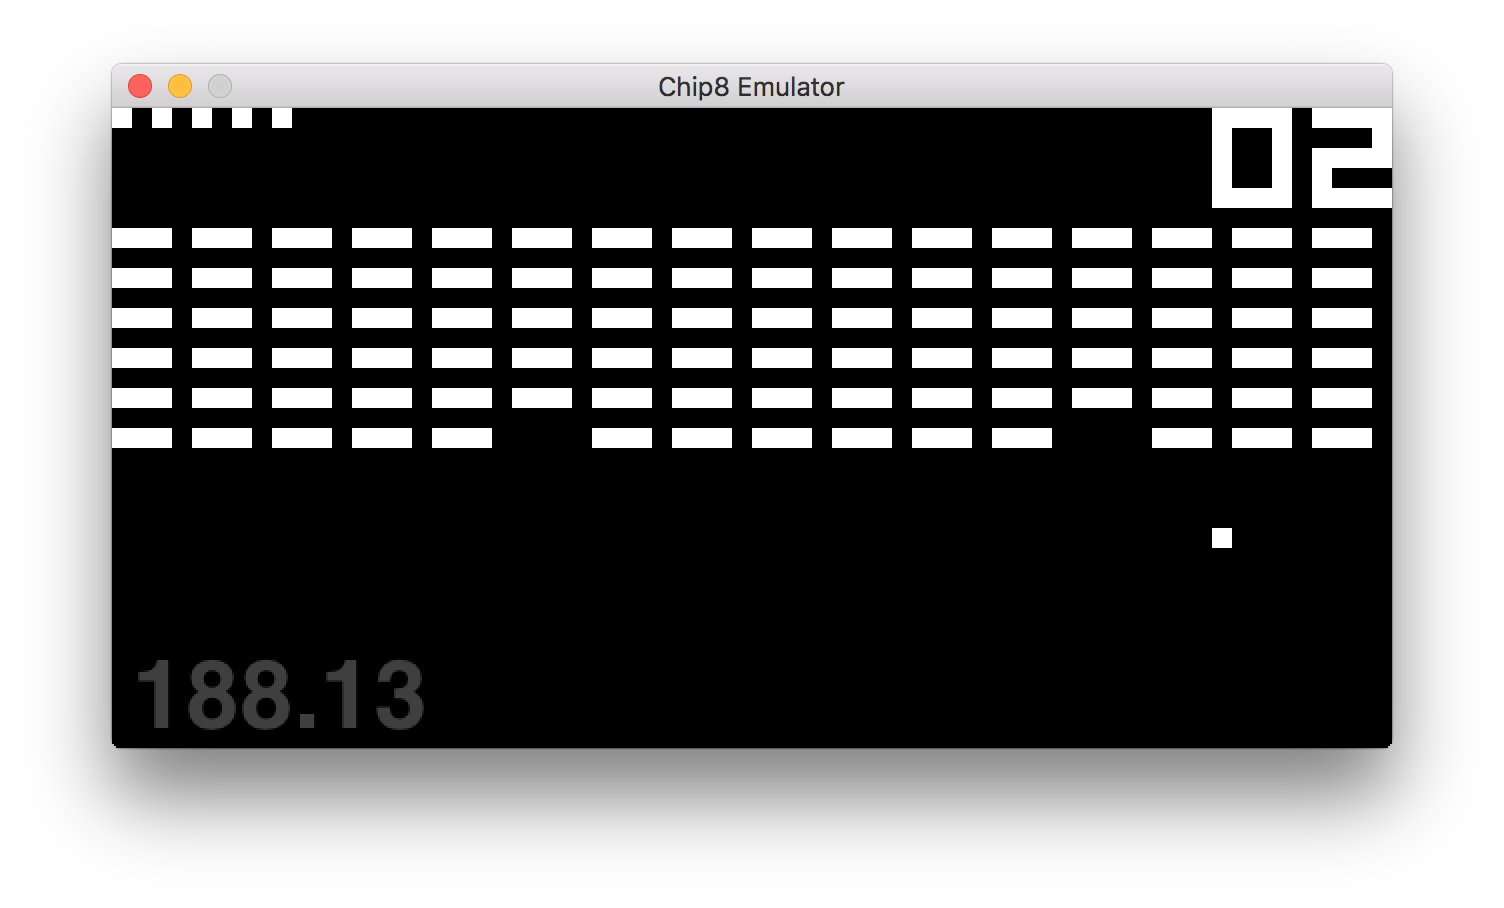
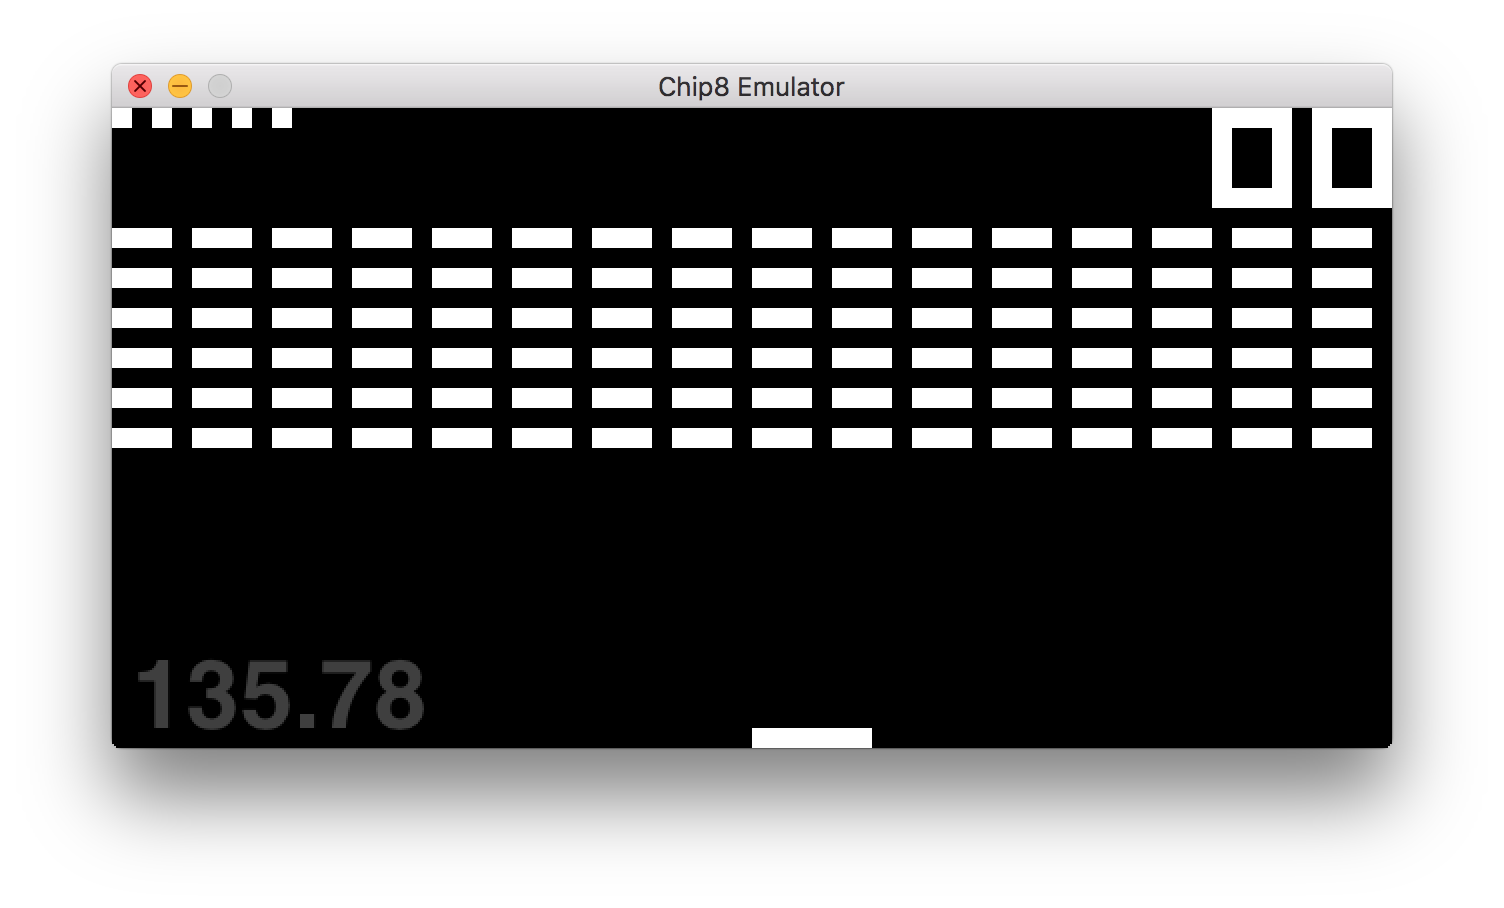
updated image

diff --git a/main.py b/main.py
@@ -9,5 +9,5 @@ if __name__ == '__main__':
     parser.add_argument("rom", help="Select game rom by title")
     args = parser.parse_args()
     chip8 = Chip8(args.rom)
-    pyglet.clock.schedule_interval(chip8.update, 1 / 360)
+    pyglet.clock.schedule_interval(chip8.update, 1 / 60)
     pyglet.app.run()
